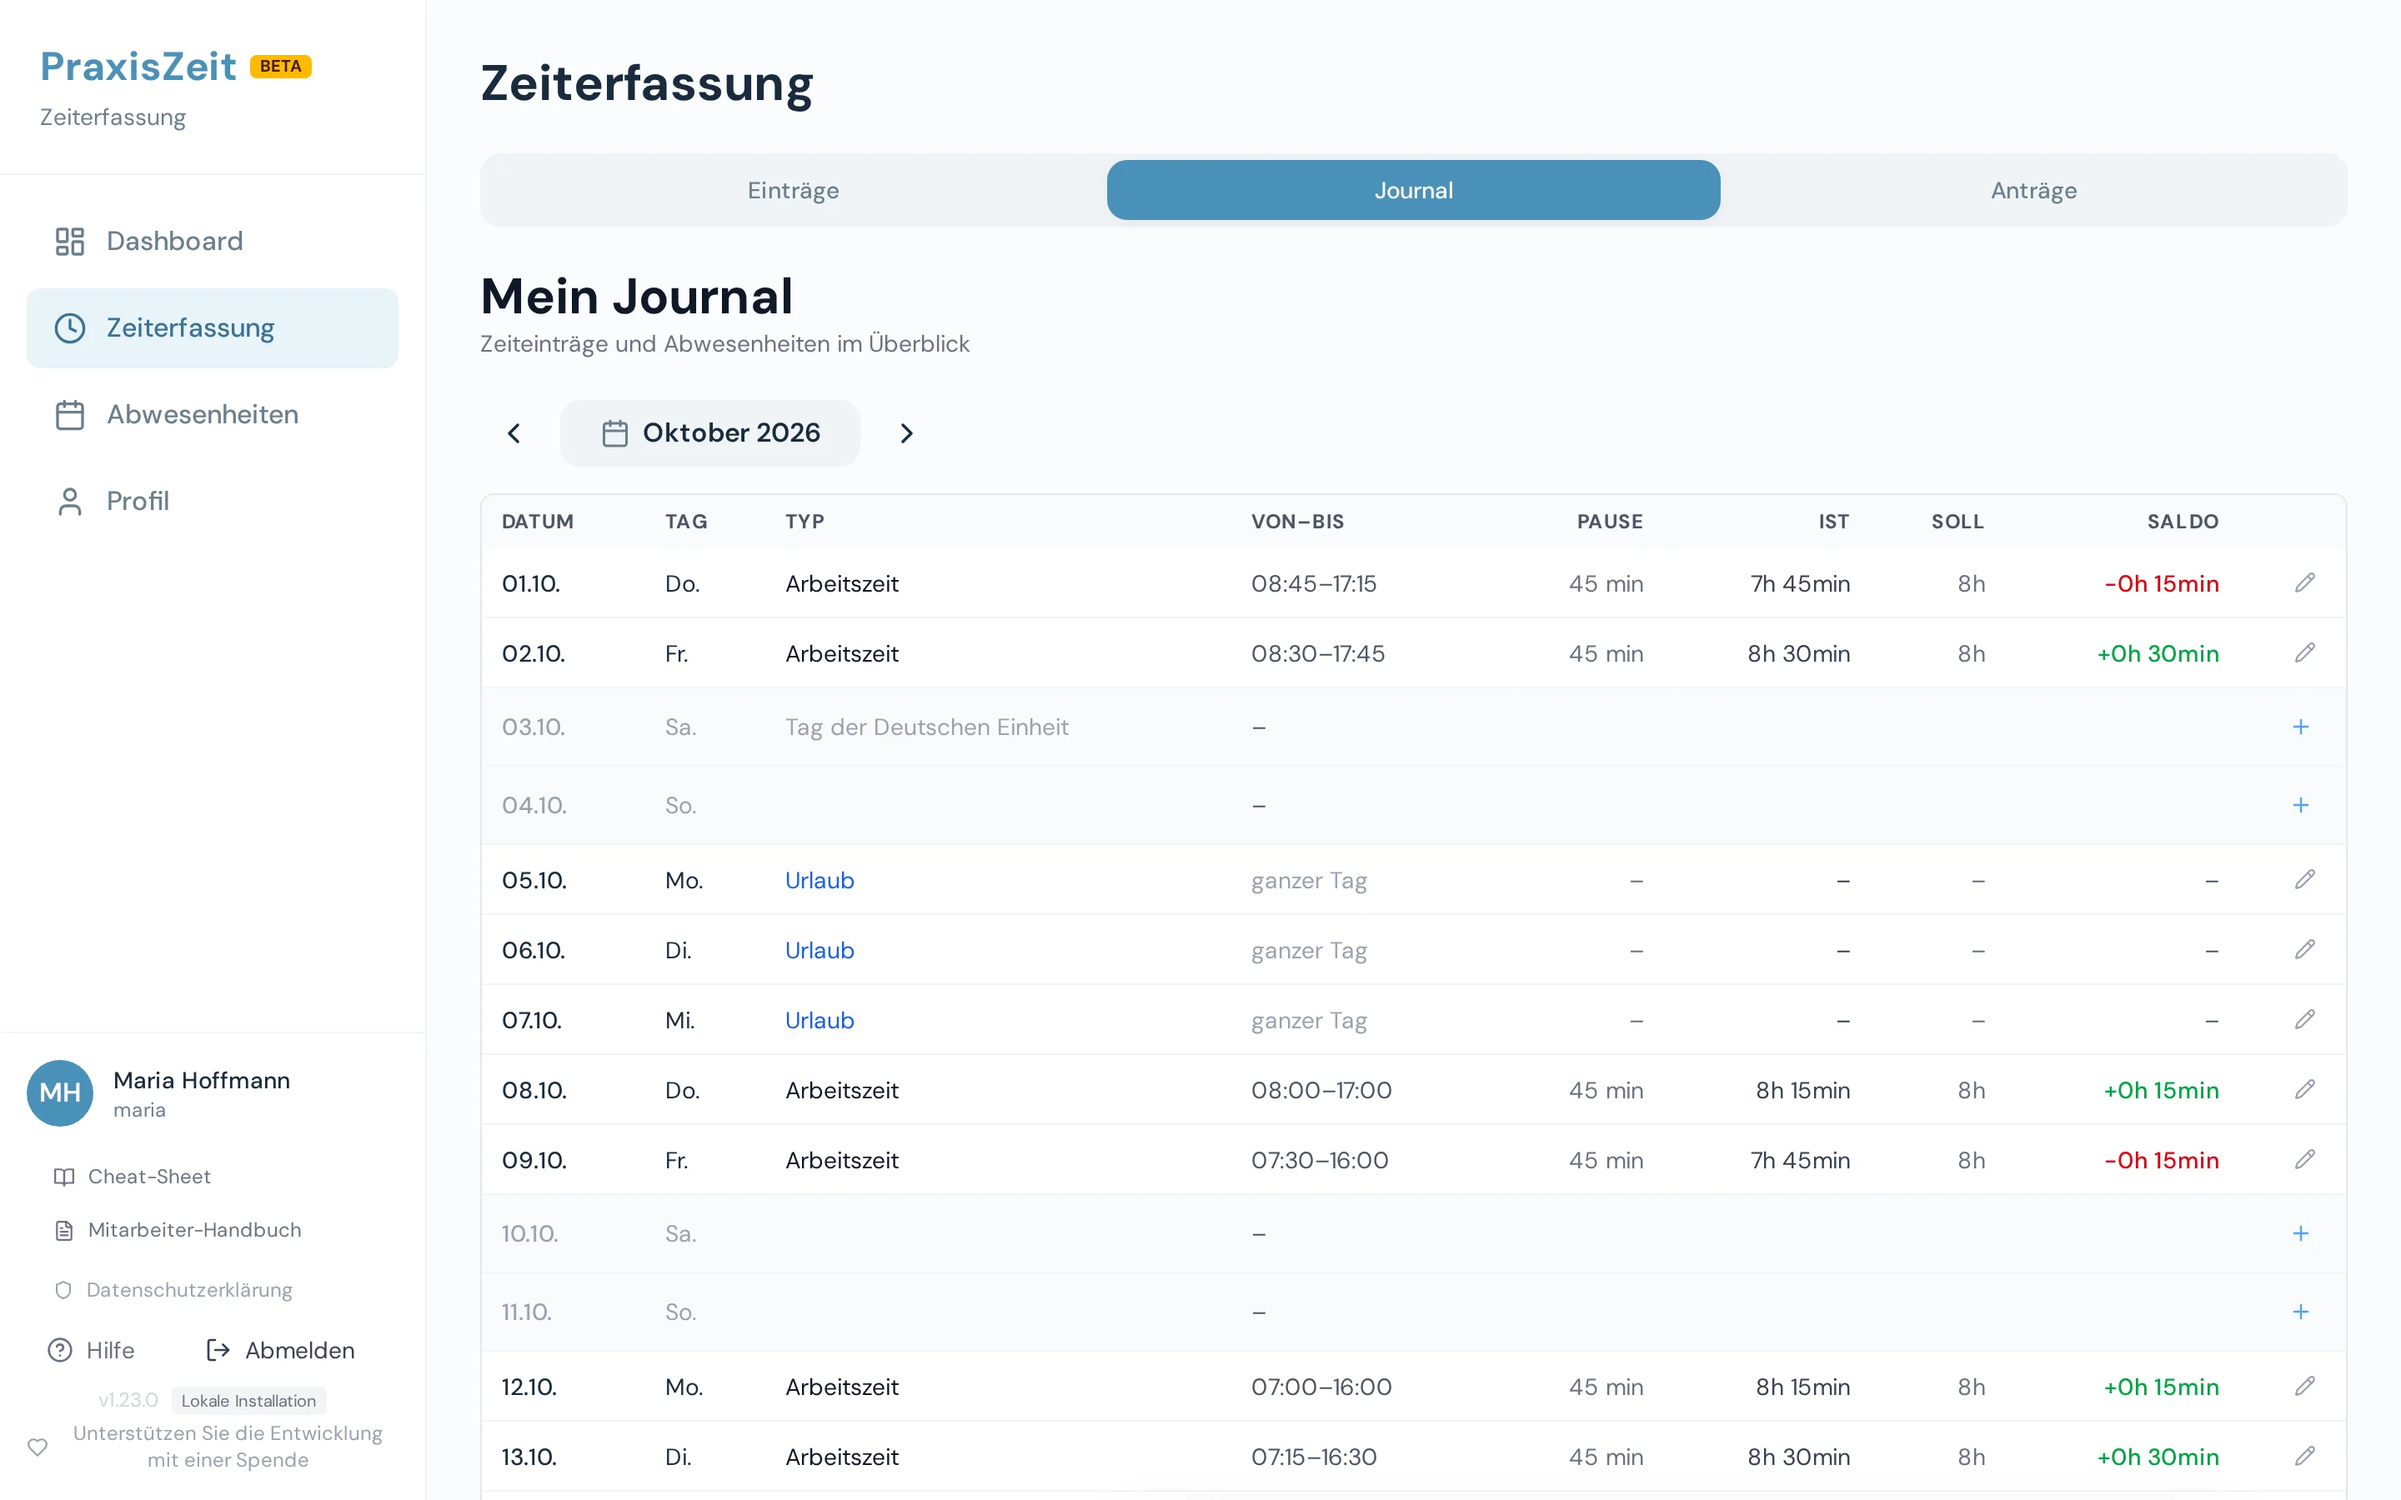
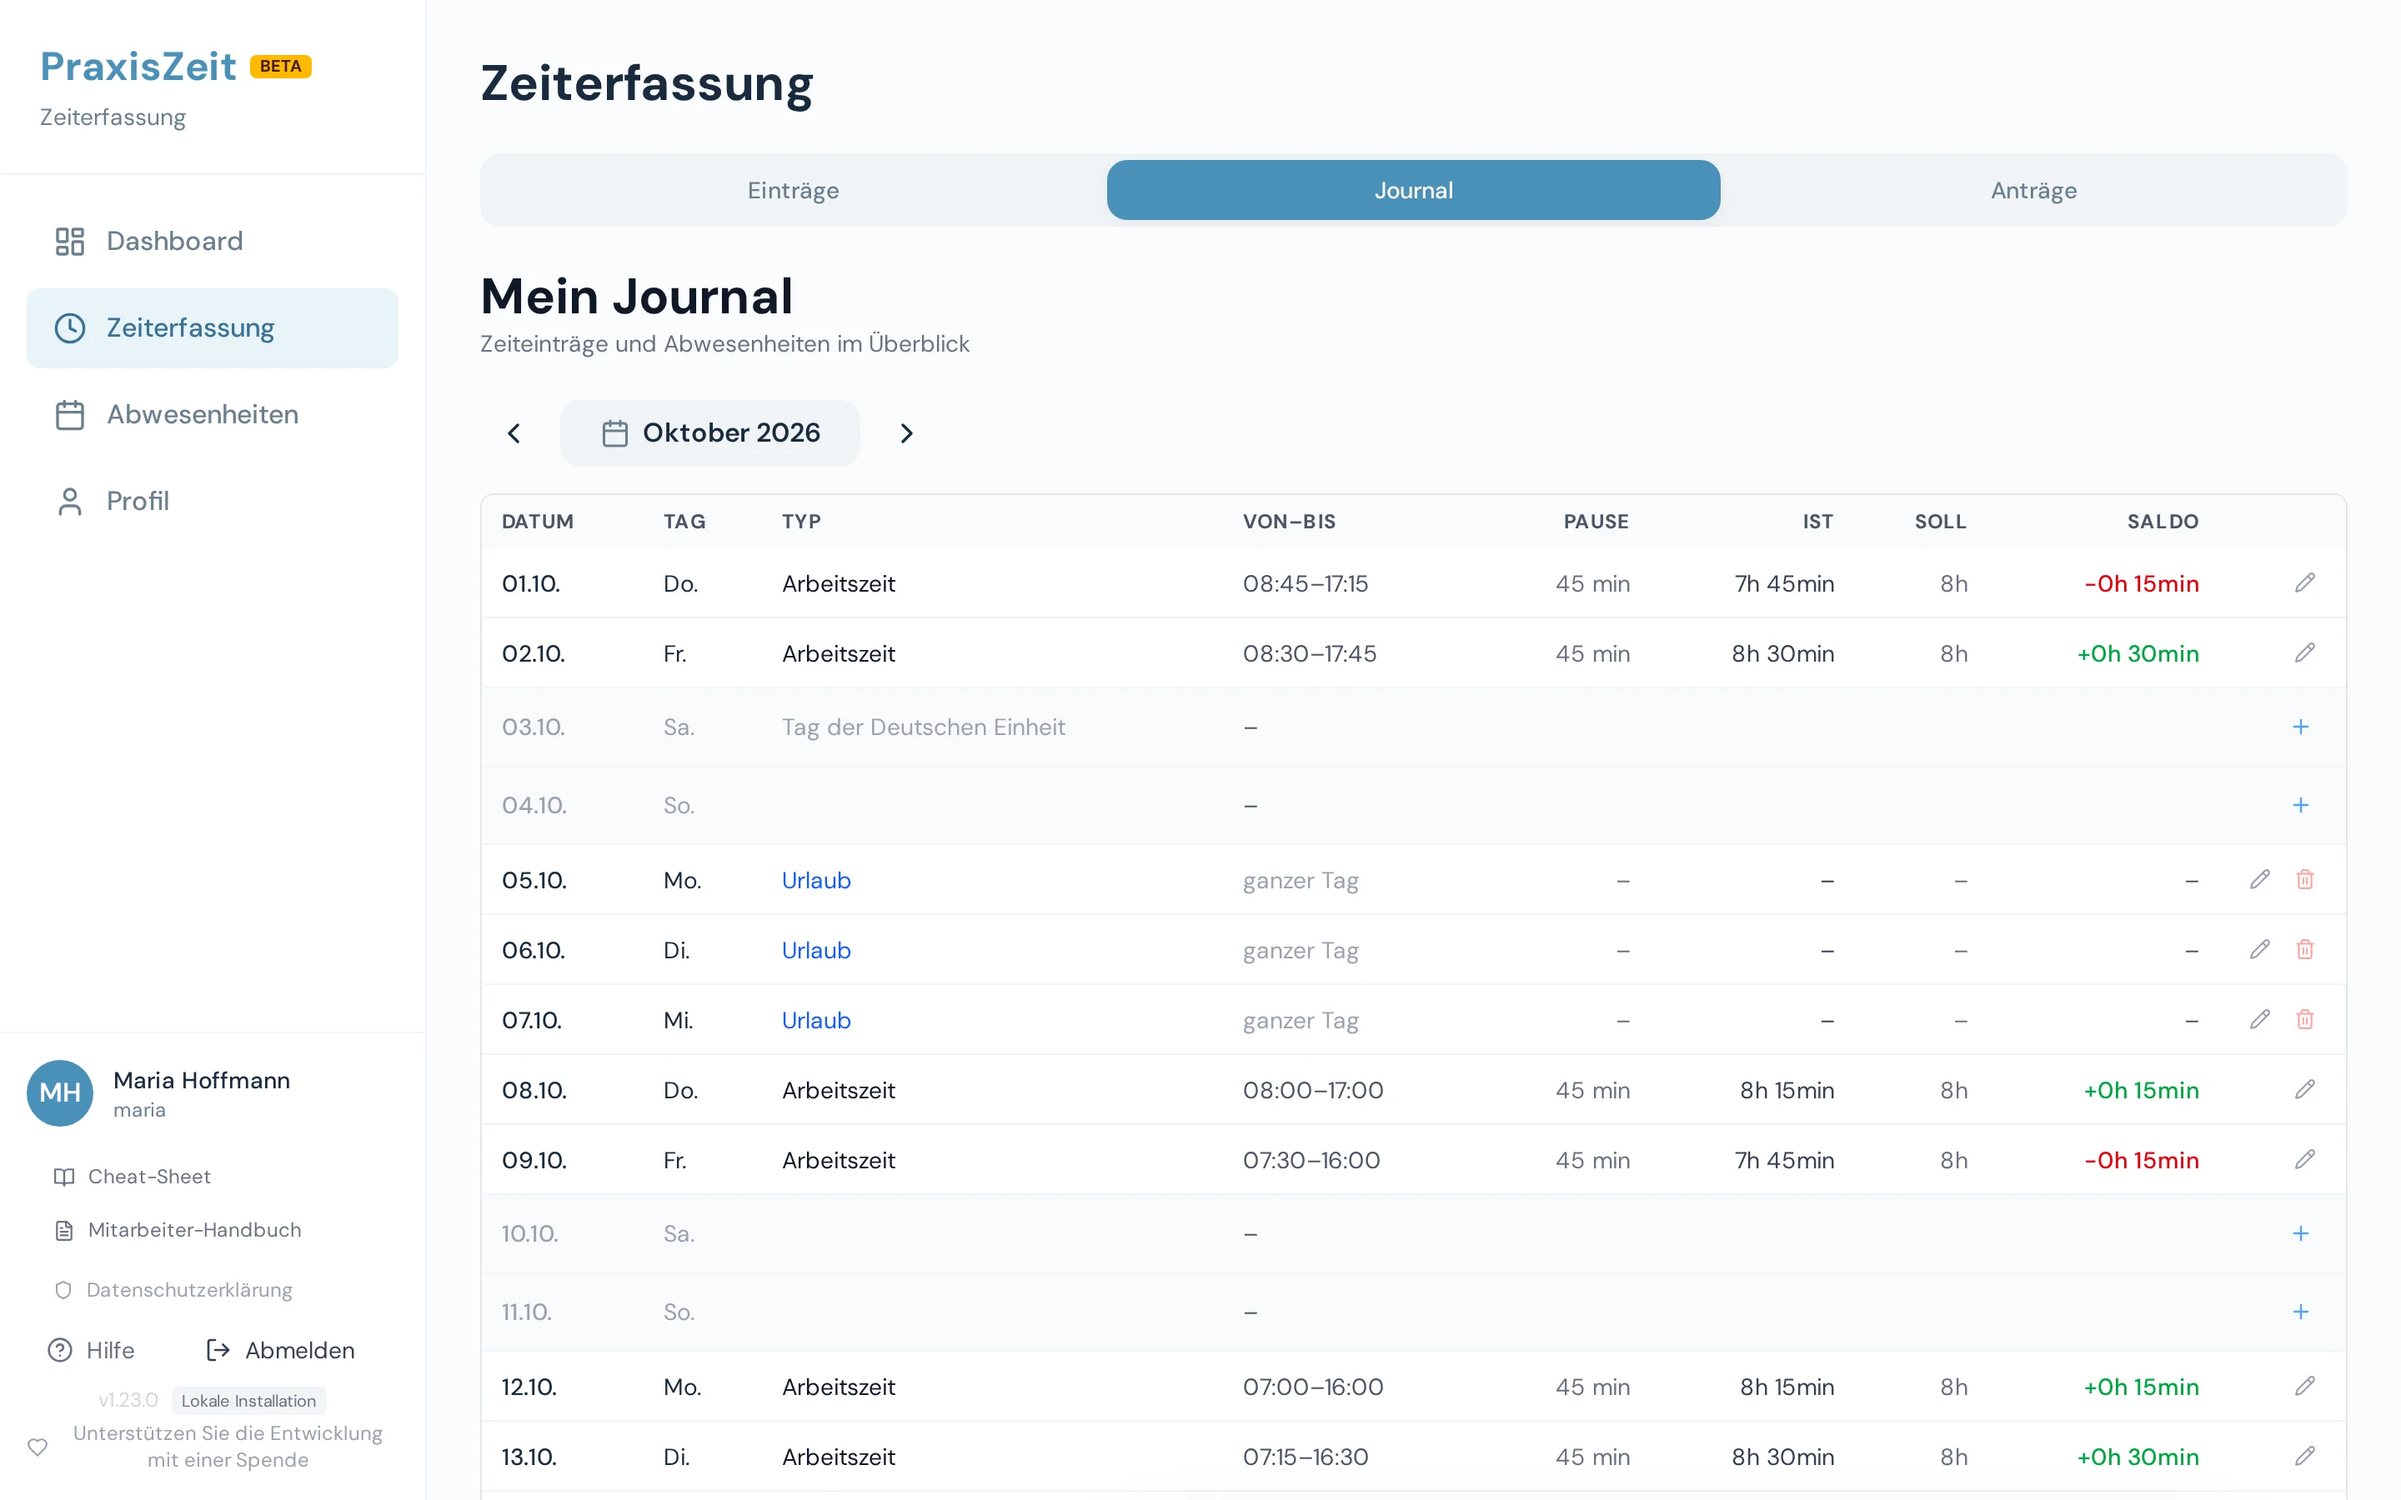
docs(handbuch): Texte nach App-Korrekturen
Mitarbeitende können die Löschung vergangener Abwesenheiten beantragen
(neue Aufnahme ma-loeschung-beantragen, Journal neu aufgenommen); CHANGELOG
nennt die Fokus-Korrektur für alle Dialoge.

diff --git a/frontend/src/handbuch/content/mitarbeitende.ts b/frontend/src/handbuch/content/mitarbeitende.ts
@@ -254,6 +254,18 @@ const shots: ShotDef[] = [
     alt: 'Formular „Abwesenheit eintragen“ mit Haken bei „Halber Tag (zählt als 0,5 Tag)“ und gesperrtem Stundenfeld',
   },
   {
+    id: 'ma-loeschung-beantragen',
+    persona: 'maria',
+    viewport: 'desktop',
+    route: '/absences',
+    prepare: [{ scrollTo: { css: "main button:has-text('Löschung beantragen') >> visible=true >> nth=0" } }],
+    crop: { around: ['knopf'], pad: 520 },
+    markers: [
+      { n: 1, id: 'knopf', locator: { css: "main button:has-text('Löschung beantragen') >> visible=true >> nth=0" }, badge: 'left' },
+    ],
+    alt: 'Liste „Meine Abwesenheiten“: an vergangenen Urlaubstagen der Knopf „Löschung beantragen“, an den künftigen Betriebsferien-Tagen kein Knopf',
+  },
+  {
     id: 'ma-meine-antraege',
     persona: 'maria',
     viewport: 'desktop',
@@ -943,18 +955,26 @@ export const mitarbeitende: Handbook = {
           kind: 'task',
           id: 'abwesenheit-loeschen',
           title: 'Wie lösche ich eine eingetragene Abwesenheit?',
-          intro: 'Unter dem Kalender stehen Ihre Abwesenheiten des Jahres als Liste.',
+          intro: 'Unter dem Kalender stehen Ihre Abwesenheiten des Jahres als Liste. Was in der Spalte **Aktionen** steht, hängt vom Tag ab.',
+          shot: 'ma-loeschung-beantragen',
           steps: [
-            { n: 1, text: 'Klicken Sie in der Zeile der Abwesenheit auf [[Löschen]].' },
-            { n: 2, text: 'Bestätigen Sie im Dialog.' },
+            { text: '**Heute oder später:** Klicken Sie in der Zeile auf [[Löschen]] und bestätigen Sie im Dialog.' },
+            { n: 1, text: '**Vergangener Tag:** Dort steht [[Löschung beantragen]]. Es öffnet sich der Dialog „Änderungsantrag: Löschung beantragen“ mit der Abwesenheit.' },
+            { text: 'Geben Sie die **Begründung** an und klicken Sie auf [[Antrag stellen]]. Erst wenn die Verwaltung genehmigt, wird die Abwesenheit gelöscht; den Stand sehen Sie unter Zeiterfassung → Tab [[Anträge]].' },
           ],
+        },
+        {
+          kind: 'tip',
+          tone: 'info',
+          text:
+            'Im **Journal** geht es genauso: Neben der Abwesenheit eines vergangenen Tages steht der Papierkorb **Löschung beantragen**.',
         },
         {
           kind: 'tip',
           tone: 'warn',
           text:
-            'Nicht selbst löschen können Sie Betriebsferien-Tage, genehmigten Urlaub (dafür [[Urlaub stornieren]]), Abwesenheiten an vergangenen Tagen ' +
-            'und Abwesenheiten, die die Verwaltung für Sie eingetragen hat. Wenden Sie sich in diesen Fällen an Ihre Verwaltung.',
+            '**Betriebsferien-Tage** ändert nur die Verwaltung – dort steht kein Knopf. Genehmigten Urlaub, der noch nicht begonnen hat, nehmen Sie mit [[Urlaub stornieren]] unter [[Meine Anträge]] zurück. ' +
+            'Ebenfalls nicht selbst löschen können Sie Urlaub bei eingeschalteter Genehmigungspflicht, Abwesenheiten, die die Verwaltung für Sie eingetragen hat, und Tage eines abgeschlossenen Jahres – wenden Sie sich dann an Ihre Verwaltung.',
         },
         {
           kind: 'tip',

diff --git a/CHANGELOG.md b/CHANGELOG.md
@@ -8,7 +8,7 @@
 
 - **Löschung einer vergangenen Abwesenheit beantragen.** Mitarbeitende konnten eine Abwesenheit eines vergangenen Tages weder löschen noch die Löschung beantragen: „Löschen“ im Journal tat an reinen Abwesenheitstagen nichts, der Link „per Antrag“ im Abwesenheitskalender führte ins Journal. Jetzt steht an der Abwesenheit „Löschung beantragen“ (Kalender und Journal, Begründung Pflicht); die Verwaltung entscheidet über den Antrag. Betriebsferien-Tage ändert weiterhin nur die Verwaltung (ein Antrag dafür wird abgelehnt).
 - **Urlaubsverbrauch alter Buchungen driftet bei ganzen Tagen nicht mehr.** Abwesenheiten von vor 1.9.0 trugen keine Halbtags-Angabe und zählten als „Stunden ÷ heutiges Tagessoll“ – nach einer Arbeitszeit-Änderung verschob sich dadurch der Urlaubsverbrauch (z. B. Vorschau „3 → 3,1 Tage“ ohne betroffene Abwesenheit). Migration 077 kennzeichnet solche Zeilen als ganzen Tag, wo die Stunden genau dem Tagessoll entsprechen; Soll, Saldo und Urlaubsverbrauch ändern sich dabei nicht. Halbe Tage und alle nicht eindeutigen Zeilen bleiben unverändert.
-- **„Rückwirkend …“ / „Ab heute …“ lassen sich über den Text auswählen.** Im Kasten „Verkürzung“ wählte nur ein Klick auf den Radioknopf die Option; ein Klick auf den Text sprang im Dialog nach oben.
+- **Ein Klick auf Text in einem Dialog lässt den Fokus nicht mehr springen.** In allen Dialogen sprang der Dialog nach oben, sobald man auf Text innerhalb eines Beschriftungs-Elements klickte; im Kasten „Verkürzung“ ließen sich deshalb „Rückwirkend …“ / „Ab heute …“ nur über den Radioknopf wählen. Jetzt wählt auch ein Klick auf den Text die Option.
 - **Admin-Dashboard nennt den Monat deutsch** („Oktober 2026“ statt „October 2026“) in der Kachel „Monat“ und im Detail-Dialog.
 - **Barrierefreiheit:** Der Plus-Knopf „Neuer Eintrag“ der Zeiterfassung hat auch am Handy einen Namen; der Schalter „Abwesenheitsanträge genehmigungspflichtig“ trägt seine Überschrift als Namen.
 - **Formular „Neue:r Benutzer:in“:** Platzhalter der E-Mail `name@praxis.example` statt einer echten fremden Domain.
